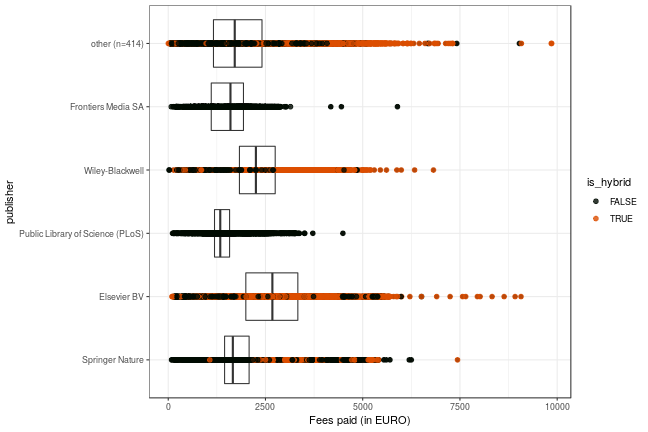
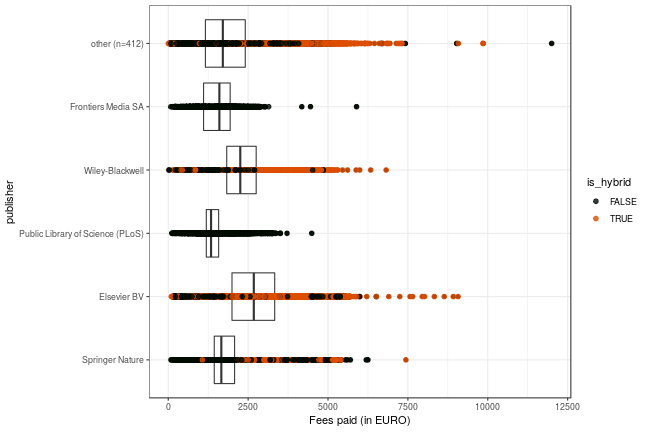
post: openapc-se data import

diff --git a/about.md b/about.md
@@ -300,13 +300,13 @@ Jisc Collections released data on APC payments made by UK higher education insti
 
 Information on both open access journal articles and open access publication of articles in toll-access journals ("hybrid") are provided.
 
-In total,  142 761 658 € for  72 314 articles were paid by the participating unviversities. Average  fee is 1 974.2 € and the median 1 784 €.
+In total,  144 013 304 € for  72 975 articles were paid by the participating unviversities. Average  fee is 1 973.5 € and the median 1 782 €.
 
 ### Open Access Journals
 
 
 
-At the moment, the dataset releases information on 40 630 articles in open access journals which charge publication fees. Total expenditure amounts to  63 275 649 €. Average  fee is 1 557.4 € and the median 1 462 €.
+At the moment, the dataset releases information on 41 059 articles in open access journals which charge publication fees. Total expenditure amounts to  63 966 857 €. Average  fee is 1 557.9 € and the median 1 461 €.
 
 View dataset on [GitHub](https://github.com/OpenAPC/openapc-de/blob/master/data/apc_de.csv).
 
@@ -332,7 +332,7 @@ View dataset on [GitHub](https://github.com/OpenAPC/openapc-de/blob/master/data/
 |CIRAD                                                           |       42|            62,119|         1,479|  1,449|
 |CNRS                                                            |      564|           830,717|         1,473|  1,260|
 |Cranfield University                                            |       26|            40,286|         1,549|  1,370|
-|Dalarna University College                                      |       28|            39,181|         1,399|  1,667|
+|Dalarna University College                                      |       42|            58,641|         1,396|  1,458|
 |Dortmund TU                                                     |       61|            75,727|         1,241|  1,426|
 |Duisburg-Essen U                                                |      235|           320,066|         1,362|  1,276|
 |Ecole normale supérieure de Paris                               |       16|            35,538|         2,221|  2,027|
@@ -383,28 +383,28 @@ View dataset on [GitHub](https://github.com/OpenAPC/openapc-de/blob/master/data/
 |King's College London                                           |      410|           833,628|         2,033|  1,628|
 |KIT                                                             |      674|           903,682|         1,341|  1,382|
 |Konstanz U                                                      |      345|           524,743|         1,521|  1,506|
-|KTH Royal Institute of Technology                               |      181|           217,262|         1,200|  1,152|
+|KTH Royal Institute of Technology                               |      180|           215,262|         1,196|  1,131|
 |Lancaster University                                            |       64|           101,253|         1,582|  1,499|
 |Leeds Beckett University                                        |        8|            12,927|         1,616|  1,461|
 |Leibniz-Fonds                                                   |      271|           435,042|         1,605|  1,572|
 |Leibniz-IGB                                                     |        6|            12,134|         2,022|  2,132|
 |Leipzig U                                                       |      415|           611,856|         1,474|  1,553|
-|Linköping University                                            |      167|           262,221|         1,570|  1,357|
-|Linnaeus University                                             |        1|               630|           630|    630|
+|Linköping University                                            |      241|           386,993|         1,606|  1,413|
+|Linnaeus University                                             |       20|            28,354|         1,418|  1,335|
 |Liverpool John Moores University                                |        2|             1,815|           908|    908|
 |Liverpool School of Tropical Medicine                           |       26|            45,261|         1,741|  1,656|
 |LSE                                                             |       21|            37,285|         1,775|  1,781|
 |LSHTM                                                           |       44|            65,024|         1,478|  1,503|
-|Luleå University of Technology                                  |       51|            53,627|         1,052|  1,150|
+|Luleå University of Technology                                  |       48|            52,360|         1,091|  1,174|
 |Lund University                                                 |       24|            32,295|         1,346|  1,410|
-|Malmö University                                                |       23|            25,942|         1,128|  1,394|
+|Malmö University                                                |       41|            48,108|         1,173|  1,394|
 |Manchester Metropolitan University                              |       17|            27,262|         1,604|  1,567|
 |MDC                                                             |       92|           186,801|         2,030|  1,802|
 |Milano U                                                        |      223|           327,683|         1,469|  1,495|
 |MLU Halle-Wittenberg                                            |       17|            36,874|         2,169|  2,142|
 |Molde University College                                        |        3|             1,876|           625|    584|
 |MPG                                                             |    3,674|         4,987,088|         1,357|  1,207|
-|Muenchen LMU                                                    |      559|           794,129|         1,421|  1,471|
+|Muenchen LMU                                                    |      558|           792,468|         1,420|  1,471|
 |Münster U                                                       |      382|           468,717|         1,227|  1,200|
 |Museum National d'Histoire Naturelle                            |       11|            14,515|         1,320|  1,305|
 |Nansen Environmental and Remote Sensing Center                  |        6|             5,298|           883|    775|
@@ -421,12 +421,12 @@ View dataset on [GitHub](https://github.com/OpenAPC/openapc-de/blob/master/data/
 |Norwegian University of Science and Technology                  |      115|           162,119|         1,410|  1,420|
 |Oldenburg U                                                     |      246|           315,918|         1,284|  1,396|
 |OpenAIRE                                                        |      536|           776,905|         1,449|  1,411|
-|Örebro University                                               |       64|            84,298|         1,317|  1,342|
+|Örebro University                                               |       63|            83,868|         1,331|  1,346|
 |Oslo and Akershus university college                            |       36|            45,728|         1,270|  1,252|
 |Oslo University Hospital                                        |      111|           149,777|         1,349|  1,392|
 |Osnabrück U                                                     |       65|            90,046|         1,385|  1,553|
 |Plymouth University                                             |       26|            37,850|         1,456|  1,438|
-|Potsdam U                                                       |      113|           165,677|         1,466|  1,529|
+|Potsdam U                                                       |      112|           165,158|         1,475|  1,530|
 |Queen Mary, University of London                                |       53|            89,135|         1,682|  1,250|
 |Queen's University Belfast                                      |      216|           350,202|         1,621|  1,454|
 |Regensburg U                                                    |      614|           890,535|         1,450|  1,394|
@@ -435,11 +435,11 @@ View dataset on [GitHub](https://github.com/OpenAPC/openapc-de/blob/master/data/
 |SINTEF                                                          |        3|             3,633|         1,211|  1,176|
 |Sørlandet Hospital Trust                                        |        5|             8,453|         1,691|  1,667|
 |St George's, University of London                               |       19|            36,284|         1,910|  1,862|
-|Stockholm University                                            |      274|           413,066|         1,508|  1,336|
+|Stockholm University                                            |      271|           412,471|         1,522|  1,350|
 |Stuttgart U                                                     |      210|           254,329|         1,211|  1,261|
 |Swansea University                                              |       57|            99,199|         1,740|  1,419|
 |Swedish University of Agricultural Sciences                     |      450|           595,056|         1,322|  1,328|
-|Swiss National Science Foundation (SNSF)                        |      370|           655,441|         1,771|  1,434|
+|Swiss National Science Foundation (SNSF)                        |      369|           653,627|         1,771|  1,426|
 |TH Wildau                                                       |        4|             3,894|           974|  1,057|
 |The Open University                                             |        8|            16,623|         2,078|  1,856|
 |TIB                                                             |        1|             1,619|         1,619|  1,619|
@@ -455,7 +455,7 @@ View dataset on [GitHub](https://github.com/OpenAPC/openapc-de/blob/master/data/
 |TU Muenchen                                                     |      858|         1,147,525|         1,337|  1,462|
 |TU Wien                                                         |       45|            61,645|         1,370|  1,323|
 |Tuebingen U                                                     |      789|         1,114,397|         1,412|  1,442|
-|UCL                                                             |    2,455|         4,152,533|         1,691|  1,582|
+|UCL                                                             |    2,454|         4,150,875|         1,691|  1,582|
 |UFZ                                                             |       98|           119,123|         1,216|  1,258|
 |Ulm U                                                           |      190|           293,342|         1,544|  1,545|
 |Umeå University                                                 |       10|            10,604|         1,060|    755|
@@ -502,7 +502,7 @@ View dataset on [GitHub](https://github.com/OpenAPC/openapc-de/blob/master/data/
 |University of Edinburgh                                         |      546|         1,027,649|         1,882|  1,592|
 |University of Exeter                                            |      152|           287,533|         1,892|  1,532|
 |University of Glasgow                                           |      268|           542,753|         2,025|  1,674|
-|University of Gothenburg                                        |      331|           490,458|         1,482|  1,406|
+|University of Gothenburg                                        |      336|           498,884|         1,485|  1,406|
 |University of Huddersfield                                      |       18|            27,045|         1,502|  1,578|
 |University of Hull                                              |        9|            11,016|         1,224|  1,437|
 |University of Kent                                              |       17|            32,253|         1,897|  1,555|
@@ -530,7 +530,7 @@ View dataset on [GitHub](https://github.com/OpenAPC/openapc-de/blob/master/data/
 |University of Ulster                                            |        4|             4,012|         1,003|    919|
 |University of Warwick                                           |       74|           146,885|         1,985|  1,639|
 |University of York                                              |      183|           322,592|         1,763|  1,559|
-|Uppsala University                                              |       18|            15,612|           867|    874|
+|Uppsala University                                              |      329|           514,219|         1,563|  1,434|
 |Vestfold Hospital Trust                                         |        4|             6,134|         1,533|  1,532|
 |Vestre Viken Hospital Trust                                     |        4|             5,796|         1,449|  1,555|
 |Virginia Tech                                                   |      153|           165,423|         1,081|  1,216|
@@ -543,7 +543,7 @@ View dataset on [GitHub](https://github.com/OpenAPC/openapc-de/blob/master/data/
 
 
 In many toll-access journals some of the articles are open access after a fee has been paid. This model is often called "hybrid open access".
-The dataset covers 31 684 hybrid open access articles. Total expenditure amounts to  79 486 010 €. Average  fee is 2 508.7 € and the median 2 453 €.
+The dataset covers 31 916 hybrid open access articles. Total expenditure amounts to  80 046 447 €. Average  fee is 2 508 € and the median 2 452 €.
 
 The following institutions have contributed its expenditures for hybrid open access.
 
@@ -562,7 +562,7 @@ The following institutions have contributed its expenditures for hybrid open acc
 |CIRAD                                                       |       14|            30,710|         2,194|  2,450|
 |CNRS                                                        |       93|           191,785|         2,062|  2,200|
 |Cranfield University                                        |      116|           342,898|         2,956|  3,247|
-|Dalarna University College                                  |       12|            32,958|         2,746|  2,710|
+|Dalarna University College                                  |       27|            65,112|         2,412|  2,519|
 |Dortmund TU                                                 |        1|             1,581|         1,581|  1,581|
 |Duisburg-Essen U                                            |        9|            23,845|         2,649|  2,618|
 |Ecole normale supérieure de Paris                           |        4|            17,077|         4,269|  2,909|
@@ -570,7 +570,7 @@ The following institutions have contributed its expenditures for hybrid open acc
 |Erlangen Nuernberg U                                        |        1|             1,638|         1,638|  1,638|
 |ESPCI Paris                                                 |        3|             5,574|         1,858|  2,160|
 |FU Berlin                                                   |        1|             1,500|         1,500|  1,500|
-|FWF - Austrian Science Fund                                 |    3,771|         9,273,858|         2,459|  2,599|
+|FWF - Austrian Science Fund                                 |    3,770|         9,272,358|         2,460|  2,599|
 |FZJ - ZB                                                    |       78|           156,289|         2,004|  1,979|
 |GenØk - Centre for Biosafety                                |        2|             3,650|         1,825|  1,825|
 |GFZ-Potsdam                                                 |       10|            24,555|         2,455|  2,643|
@@ -597,18 +597,19 @@ The following institutions have contributed its expenditures for hybrid open acc
 |King's College London                                       |      936|         2,532,498|         2,706|  2,640|
 |KIT                                                         |        1|             2,000|         2,000|  2,000|
 |Konstanz U                                                  |        3|             5,556|         1,852|  1,950|
-|KTH Royal Institute of Technology                           |      136|           248,396|         1,826|  1,848|
+|KTH Royal Institute of Technology                           |      137|           250,396|         1,828|  1,848|
 |Lancaster University                                        |      169|           355,779|         2,105|  2,052|
 |Leeds Beckett University                                    |        1|             2,406|         2,406|  2,406|
 |Leibniz-IGB                                                 |        5|            10,273|         2,055|  2,871|
-|Linköping University                                        |       54|           111,882|         2,072|  2,132|
+|Linköping University                                        |       70|           146,434|         2,092|  2,132|
+|Linnaeus University                                         |       19|            42,280|         2,225|  2,105|
 |Liverpool John Moores University                            |        2|             6,793|         3,396|  3,396|
 |Liverpool School of Tropical Medicine                       |       14|            42,345|         3,025|  3,039|
 |LSE                                                         |       50|           101,974|         2,039|  2,067|
 |LSHTM                                                       |       79|           199,854|         2,530|  2,287|
 |Luleå University of Technology                              |       32|            67,536|         2,110|  2,290|
 |Lund University                                             |       39|            77,850|         1,996|  2,132|
-|Malmö University                                            |       10|            22,099|         2,210|  2,349|
+|Malmö University                                            |       16|            32,555|         2,035|  2,141|
 |Manchester Metropolitan University                          |       23|            51,545|         2,241|  2,412|
 |MDC                                                         |       29|            74,019|         2,552|  2,200|
 |Milano U                                                    |       37|            78,777|         2,129|  2,200|
@@ -616,7 +617,7 @@ The following institutions have contributed its expenditures for hybrid open acc
 |Museum National d'Histoire Naturelle                        |        2|             5,003|         2,502|  2,502|
 |Northumbria University                                      |       60|           142,681|         2,378|  2,240|
 |OpenAIRE                                                    |        1|             2,000|         2,000|  2,000|
-|Örebro University                                           |       44|            89,852|         2,042|  2,150|
+|Örebro University                                           |       46|            91,968|         1,999|  2,150|
 |Plymouth University                                         |       25|            63,476|         2,539|  2,673|
 |Queen Mary, University of London                            |      130|           296,514|         2,281|  2,024|
 |Queen's University Belfast                                  |       70|           171,779|         2,454|  2,184|
@@ -667,7 +668,7 @@ The following institutions have contributed its expenditures for hybrid open acc
 |University of Edinburgh                                     |      898|         2,360,785|         2,629|  2,513|
 |University of Exeter                                        |      287|           784,591|         2,734|  2,669|
 |University of Glasgow                                       |      682|         1,785,849|         2,619|  2,489|
-|University of Gothenburg                                    |      197|           479,499|         2,434|  2,523|
+|University of Gothenburg                                    |      198|           481,259|         2,431|  2,522|
 |University of Huddersfield                                  |       44|            64,318|         1,462|    990|
 |University of Hull                                          |       15|            41,658|         2,777|  2,640|
 |University of Kent                                          |       40|            85,892|         2,147|  2,066|
@@ -692,10 +693,10 @@ The following institutions have contributed its expenditures for hybrid open acc
 |University of Ulster                                        |       11|            22,566|         2,051|  2,193|
 |University of Warwick                                       |      267|           679,743|         2,546|  2,574|
 |University of York                                          |      296|           734,054|         2,480|  2,341|
-|Uppsala University                                          |       26|            53,226|         2,047|  2,132|
+|Uppsala University                                          |      200|           490,457|         2,452|  2,429|
 |Virginia Tech                                               |       14|            20,480|         1,463|  1,256|
 |Weierstrass Institute for Applied Analysis and Stochastics  |        2|             4,870|         2,435|  2,435|
-|Wellcome Trust                                              |    3,592|         9,391,616|         2,615|  2,584|
+|Wellcome Trust                                              |    3,591|         9,391,005|         2,615|  2,584|
 
 ## Use of external sources
 

diff --git a/_posts/2019-01-22-openapc-se.md b/_posts/2019-01-22-openapc-se.md
@@ -1,0 +1,163 @@
+---
+layout:     post
+author:     Christoph Broschinski
+author_lnk: https://github.com/cbroschinski
+title:      New articles ingested from OpenAPC Sweden
+date:       2019-01-22 09:00:00
+summary:    
+categories: [general, openAPC]
+comments: true
+---
+
+
+
+
+Our partner project [OpenAPC Sweden](https://github.com/Kungbib/openapc-se) collects APC data from institutions in Sweden. 
+
+Having agreed on a biannual ingestion interval, articles added to openapc-se since our [last exchange](https://openapc.github.io/general/openapc/2018/07/04/openapc-se/) have now been added to OpenAPC as well.
+
+
+## Cost data
+
+
+
+The ingested data covers publication fees for 3,436 articles published by Swedish institutions (This includes articles already imported before). Total expenditure amounts to 5 996 021€ and the average fee is 1 745€.
+
+Note that OpenAPC did neither include articles already present in its [offsetting data collection](https://github.com/OpenAPC/openapc-de/tree/master/data/offsetting) nor articles with a cost of 0€, so the net intake is lower than what might be expected.
+
+The following table and plots show a breakdown of the payments.
+
+### Overview
+
+
+|                                                              | Articles| Fees paid in EURO| Mean Fee paid|
+|:-------------------------------------------------------------|--------:|-----------------:|-------------:|
+|Springer Nature                                               |      658|           1107026|          1682|
+|Elsevier BV                                                   |      419|            957126|          2284|
+|Informa UK Limited                                            |      335|            556351|          1661|
+|Wiley-Blackwell                                               |      334|            810975|          2428|
+|Public Library of Science (PLoS)                              |      299|            416770|          1394|
+|MDPI AG                                                       |      231|            248139|          1074|
+|Frontiers Media SA                                            |      151|            258686|          1713|
+|Oxford University Press (OUP)                                 |       93|            195468|          2102|
+|Copernicus GmbH                                               |       84|            104618|          1245|
+|Royal Society of Chemistry (RSC)                              |       79|            116615|          1476|
+|American Chemical Society (ACS)                               |       69|            105503|          1529|
+|Hindawi Publishing Corporation                                |       58|             40360|           696|
+|Springer Science + Business Media                             |       58|             98118|          1692|
+|SAGE Publications                                             |       49|             74774|          1526|
+|BMJ                                                           |       36|             64300|          1786|
+|IOP Publishing                                                |       36|             65237|          1812|
+|Dove Medical Press Ltd.                                       |       22|             40169|          1826|
+|S. Karger AG                                                  |       19|             20165|          1061|
+|American Geophysical Union (AGU)                              |       18|             44584|          2477|
+|Scientific Research Publishing, Inc,                          |       18|             15551|           864|
+|AIP Publishing                                                |       17|             26718|          1572|
+|Impact Journals, LLC                                          |       17|             46618|          2742|
+|Institute of Electrical & Electronics Engineers (IEEE)        |       15|             21340|          1423|
+|Ovid Technologies (Wolters Kluwer Health)                     |       15|             29688|          1979|
+|Proceedings of the National Academy of Sciences               |       14|             33726|          2409|
+|Cambridge University Press (CUP)                              |       13|             27905|          2147|
+|Resilience Alliance, Inc.                                     |       13|             12015|           924|
+|American Society for Microbiology                             |       12|             25668|          2139|
+|The Royal Society                                             |       12|             22206|          1851|
+|Walter de Gruyter GmbH                                        |       12|             17850|          1488|
+|American Association for the Advancement of Science (AAAS)    |       11|             32077|          2916|
+|JMIR Publications Inc.                                        |       11|             20651|          1877|
+|American Meteorological Society                               |       10|             21858|          2186|
+|American Physical Society (APS)                               |        9|             15146|          1683|
+|OMICS Publishing Group                                        |        9|              7585|           843|
+|Genetics Society of America                                   |        8|             15619|          1952|
+|The Company of Biologists                                     |        8|             31215|          3902|
+|American Dairy Science Association                            |        6|             11951|          1992|
+|Acta Dermato-Venereologica                                    |        5|              4568|           914|
+|American Society of Plant Biologists (ASPB)                   |        5|             11556|          2311|
+|Emerald                                                       |        5|              6223|          1245|
+|Pensoft Publishers                                            |        5|              2678|           536|
+|The Electrochemical Society                                   |        5|              2799|           560|
+|BioScientifica                                                |        4|             14803|          3701|
+|EMBO                                                          |        4|             14799|          3700|
+|International Union of Crystallography (IUCr)                 |        4|              4323|          1081|
+|Sciedu Press                                                  |        4|              1198|           299|
+|Wageningen Academic Publishers                                |        4|              6650|          1662|
+|American Association for Cancer Research (AACR)               |        3|              9777|          3259|
+|American Society for Biochemistry & Molecular Biology (ASBMB) |        3|              5556|          1852|
+|American Society for Clinical Investigation                   |        3|             11032|          3677|
+|Brill                                                         |        3|              3954|          1318|
+|Cappelen Damm AS - Cappelen Damm Akademisk                    |        3|              3754|          1251|
+|Cogitatio                                                     |        3|              2583|           861|
+|Cold Spring Harbor Laboratory Press                           |        3|              7207|          2402|
+|Council for British Archaeology                               |        3|              2652|           884|
+|David Publishing Company                                      |        3|              3400|          1133|
+|Geological Society of London                                  |        3|              5319|          1773|
+|Intellect                                                     |        3|              3614|          1205|
+|IOS Press                                                     |        3|              4862|          1621|
+|Optical Society of America (OSA)                              |        3|              4643|          1548|
+|SPIE-Intl Soc Optical Eng                                     |        3|              2033|           678|
+|Academic Journals                                             |        2|               590|           295|
+|American Psychological Association (APA)                      |        2|              5400|          2700|
+|Association for Research in Vision and Ophthalmology (ARVO)   |        2|              2402|          1201|
+|Bentham Science Publishers Ltd.                               |        2|              1452|           726|
+|Canadian Center of Science and Education                      |        2|               754|           377|
+|Gavin Publishers                                              |        2|              2646|          1323|
+|Inter-Research Science Center                                 |        2|              2900|          1450|
+|John Benjamins Publishing Company                             |        2|              3400|          1700|
+|Mary Ann Liebert Inc                                          |        2|              5034|          2517|
+|Norwegian Polar Institute                                     |        2|              2844|          1422|
+|Portland Press Ltd.                                           |        2|              3119|          1560|
+|Royal College of Psychiatrists                                |        2|              4705|          2352|
+|Scandinavian Journal of Work, Environment and Health          |        2|              3500|          1750|
+|Society for Neuroscience                                      |        2|              5556|          2778|
+|Society for Sociological Science                              |        2|              1109|           554|
+|Ubiquity Press, Ltd.                                          |        2|               555|           277|
+|Academy of Taiwan Information Systems Research                |        1|               516|           516|
+|Acoustical Society of America (ASA)                           |        1|              1780|          1780|
+|American Society of Civil Engineers (ASCE)                    |        1|              1397|          1397|
+|American Society of Clinical Oncology (ASCO)                  |        1|              3095|          3095|
+|American Society of Nephrology (ASN)                          |        1|               650|           650|
+|American Speech Language Hearing Association                  |        1|              2174|          2174|
+|Annex Publishers, LLC                                         |        1|               611|           611|
+|Baishideng Publishing Group Inc.                              |        1|              1971|          1971|
+|Brepols Publishers NV                                         |        1|              1000|          1000|
+|Canadian Science Publishing                                   |        1|              2833|          2833|
+|Common Ground Research Networks                               |        1|               205|           205|
+|Crop Science Society of America                               |        1|               890|           890|
+|CSIRO Publishing                                              |        1|              2488|          2488|
+|eLife Sciences Publications, Ltd                              |        1|              2002|          2002|
+|F1000 Research, Ltd.                                          |        1|               145|           145|
+|Graphyonline Publications PVT, Ltd.                           |        1|               374|           374|
+|Informa Healthcare                                            |        1|              3040|          3040|
+|Institution of Engineering and Technology (IET)               |        1|              1132|          1132|
+|Ivyspring International Publisher                             |        1|              1747|          1747|
+|IWA Publishing                                                |        1|              1562|          1562|
+|Japan Society of Applied Physics                              |        1|               473|           473|
+|Japanese Society of Animal Reproduction                       |        1|              1360|          1360|
+|Macrothink Institute, Inc.                                    |        1|                85|            85|
+|Magnolia Press                                                |        1|               270|           270|
+|Microbiology Society                                          |        1|              2496|          2496|
+|MIT Press - Journals                                          |        1|              1125|          1125|
+|MyJove Corporation                                            |        1|              1578|          1578|
+|Redfame Publishing                                            |        1|               227|           227|
+|Sci Forschen, Inc.                                            |        1|               667|           667|
+|Scitechnol Biosoft Pvt. Ltd.                                  |        1|               360|           360|
+|Smart Science and Technology, LLC                             |        1|               625|           625|
+|SNF Swedish Nutrition Foundation                              |        1|              2098|          2098|
+|Spandidos Publications                                        |        1|              1024|          1024|
+|Symbiosis Group                                               |        1|               646|           646|
+|The American Association of Immunologists                     |        1|              3203|          3203|
+|The Endocrine Society                                         |        1|              1009|          1009|
+|Trans Tech Publications                                       |        1|               239|           239|
+|University of California Press                                |        1|              1223|          1223|
+|World Scientific Pub Co Pte Lt                                |        1|              1379|          1379|
+
+### Fees paid per publisher (in EURO)
+
+![plot of chunk tree_openapc_se_2019_01_22_full](/figure/tree_openapc_se_2019_01_22_full-1.png)
+
+###  Average costs per year (in EURO)
+
+![plot of chunk box_openapc_se_2019_01_22_year_full](/figure/box_openapc_se_2019_01_22_year_full-1.png)
+
+###  Average costs per publisher (in EURO)
+
+![plot of chunk box_openapc_se_2019_01_22_publisher_full](/figure/box_openapc_se_2019_01_22_publisher_full-1.png)
